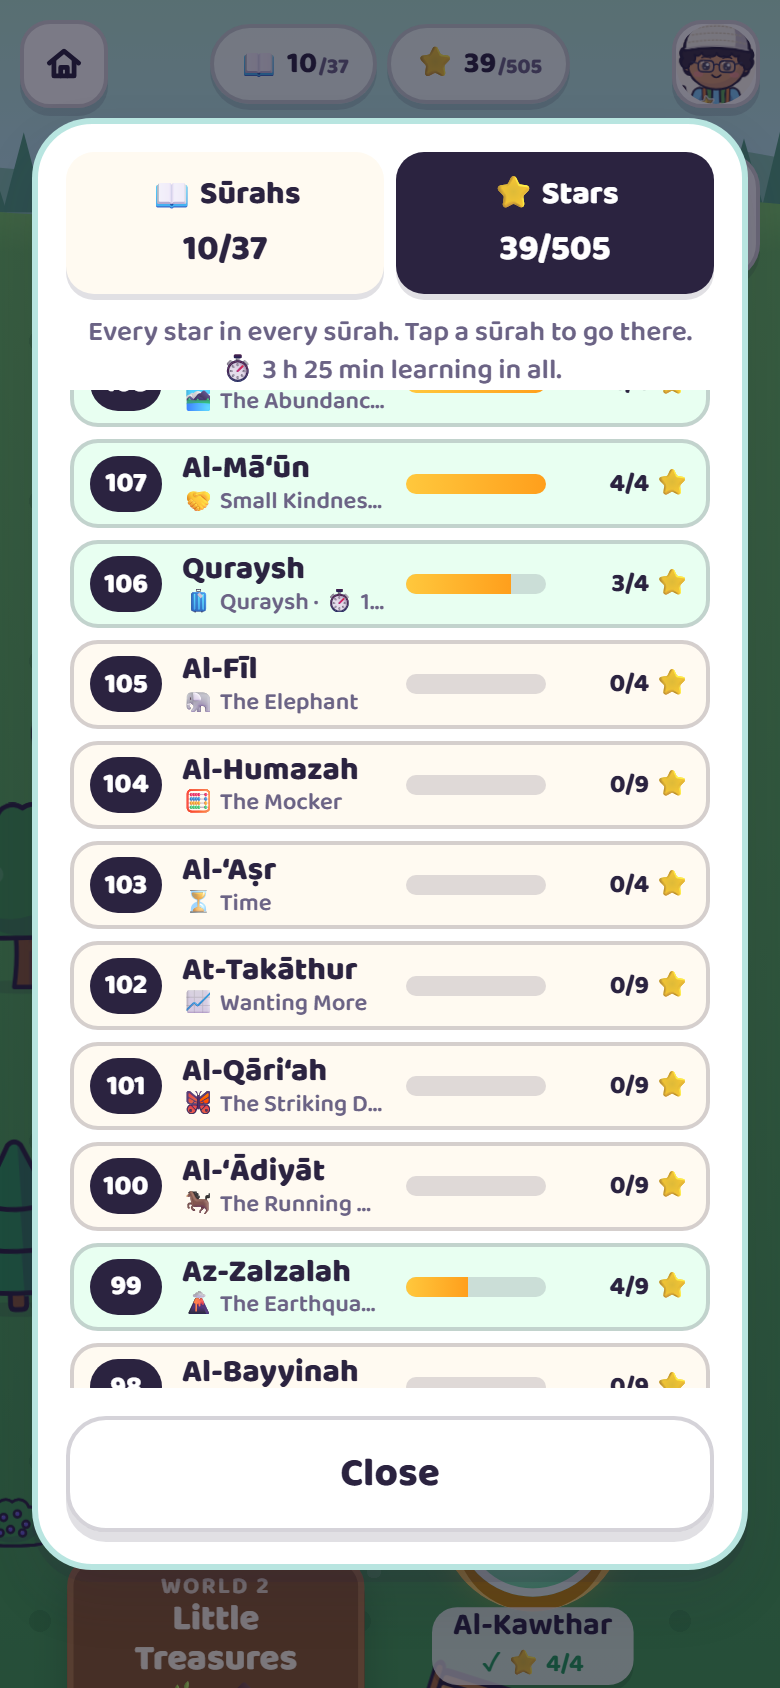
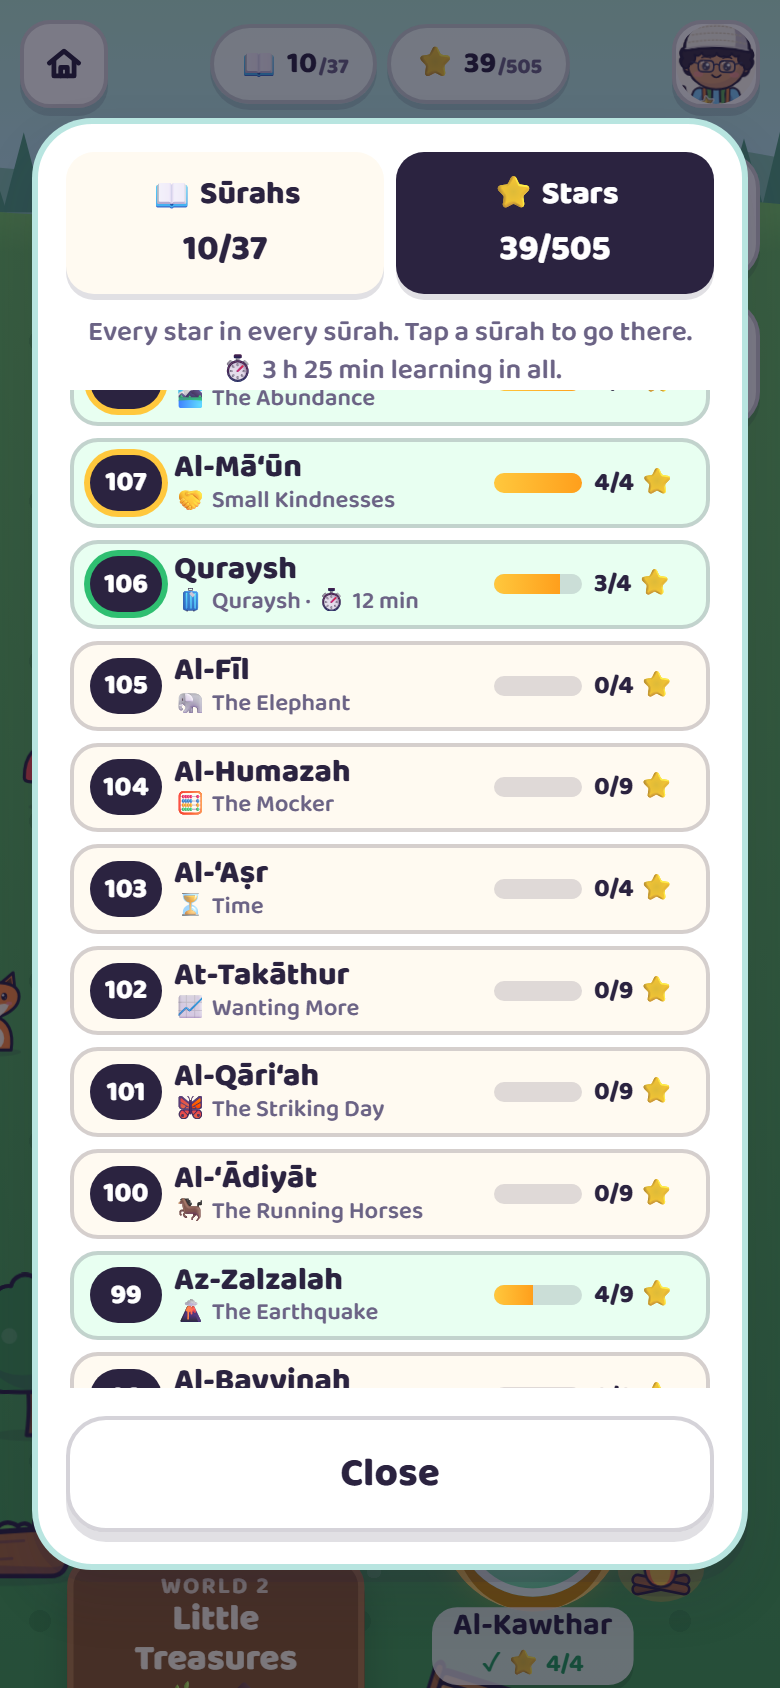
Little Hafiz Quest v2.8.3
The sūrahs list rings each number like the map's stops (gold with every star, green once memorized); Stars shows no
campfires, a shorter bar beside its count, and keeps every meaning whole (the time shows only when it fits).

Claude-Session: https://claude.ai/code/session_01G32LazbMFB5CEeB9eK52fY

diff --git a/js/game.js b/js/game.js
@@ -37,7 +37,7 @@
 (function () {
   'use strict';
 
-  const VERSION = '2.8.2';
+  const VERSION = '2.8.3';
   const DATA = window.LHQ_DATA;
   if (!DATA || !Array.isArray(DATA.surahs)) throw new Error('Little Hafiz Quest: js/data.js did not load.');
   const ART = window.LHQ_ART;
@@ -1939,13 +1939,15 @@
           : `<span class="pgok ${got ? 'on' : ''}">${got ? '✓' : ''}</span>`;
       const t = prof.stime[s.n],
         fl = fireOf(s, prof);
-      return `<button class="pgrow ${got ? 'done' : ''}" data-act="jump" data-i="${i}"><span class="pn">${s.n}</span><span class="pgname">${s.name}${fix ? ' <span class="pgfix" title="Needs fixing">💔</span>' : ''}<small>${s.icon} ${s.meaning}${t >= 30 ? ` · ⏱ ${fmtTime(t)}` : ''}</small></span>${fl >= 0 ? `<span class="pgfire f${fl}" title="Campfire: ${FIRE_WORD[fl]}">${ART.campfire(fl)}</span>` : ''}${right}</button>`;
+      // the number ringed like the map's stops: gold with every star, green once memorized
+      const ring = got >= max ? ' gold' : surahDone(s) ? ' green' : '';
+      return `<button class="pgrow ${got ? 'done' : ''}" data-act="jump" data-i="${i}"><span class="pn${ring}">${s.n}</span><span class="pgname">${s.name}${fix ? ' <span class="pgfix" title="Needs fixing">💔</span>' : ''}<small><span>${s.icon} ${s.meaning}</span>${t >= 30 ? `<span>\u00a0· ⏱ ${fmtTime(t)}</span>` : ''}</small></span>${fl >= 0 && tab !== 'stars' ? `<span class="pgfire f${fl}" title="Campfire: ${FIRE_WORD[fl]}">${ART.campfire(fl)}</span>` : ''}${right}</button>`;
     }).join('');
     const fixes = prof.fix.length ? `<p class="saveinfo center">💔 ${prof.fix.length === 1 ? 'One sūrah needs' : prof.fix.length + ' sūrahs need'} a little fixing: tap it to play a review game there.</p>` : '';
     m.innerHTML = `<div class="card progcard">
       <div class="pgtabs"><button class="${tab !== 'stars' ? 'on' : ''}" data-act="progress" data-t="surahs">📖 Sūrahs <b>${doneSurahs()}/${S.length}</b></button><button class="${tab === 'stars' ? 'on' : ''}" data-act="progress" data-t="stars">⭐ Stars <b>${totalStars()}/${MAX_STARS}</b></button></div>
       <p class="saveinfo center">${tab === 'stars' ? 'Every star in every sūrah. Tap a sūrah to go there.' : 'A sūrah is done with at least one star. Tap one to go there.'} ⏱ ${fmtTime(prof.time || 0)} learning in all.</p>${fixes}
-      <div class="pglist">${rows}</div>
+      <div class="pglist${tab === 'stars' ? ' stars' : ''}">${rows}</div>
       <div class="row"><button class="btn wide" data-act="cno">Close</button></div></div>`;
     m.classList.add('show');
     const list = m.querySelector('.pglist'),

diff --git a/tests/cases/v283.js b/tests/cases/v283.js
@@ -1,0 +1,20 @@
+// v2.8.3: the sūrahs list rings each number like the map (gold: every star, green: memorized); Stars shows no campfires
+(async () => {
+  fixture();
+  const { w, d, L, idx } = await openGame();
+  const errs = watchErrors(w);
+  const m = d.getElementById('modal');
+  L.go('map'); await wait(1200);
+  d.querySelector('[data-act=progress][data-t=surahs]').click(); await wait(300);
+  const pn = (n) => m.querySelectorAll('.pgrow')[idx(n)].querySelector('.pn').className;
+  log('rings', [114, 113, 112, 111].map((n) => n + ':' + pn(n)).join(' '));
+  ok('every star: a gold ring (An-Nās)', /\bgold\b/.test(pn(114)), pn(114));
+  ok('memorized, stars to go: a green ring (Al-Ikhlāṣ)', /\bgreen\b/.test(pn(112)), pn(112));
+  ok('not memorized: no ring (Al-Masad)', !/gold|green/.test(pn(111)), pn(111));
+  ok('Sūrahs shows the campfires', m.querySelectorAll('.pgfire').length >= 3);
+  d.querySelector('[data-act=progress][data-t=stars]').click(); await wait(300);
+  ok('Stars shows only the bars and stars, no campfires', !m.querySelector('.pgfire') && m.querySelectorAll('.pgbar').length === 37);
+  ok('Stars keeps the rings', /\bgold\b/.test(pn(114)));
+  ok('no game errors', !errs.length, errs.slice(0, 3).join('; '));
+  done();
+})();

diff --git a/css/game.css b/css/game.css
@@ -9182,3 +9182,36 @@ body:has(.wrail.open) .jbtn {
 .strscr .arena .me {
   left: 20%;
 }
+
+/* ---------- v2.8.3: the sūrahs list ---------- */
+/* the number ringed like the map's stops: gold with every star, green once memorized */
+.pgrow .pn.gold {
+  box-shadow: 0 0 0 3px var(--gold);
+}
+.pgrow .pn.green {
+  box-shadow: 0 0 0 3px var(--go);
+}
+/* Stars: the bar right beside its count, leaving room for the sūrah's meaning */
+.pgbar {
+  width: 44px;
+}
+.pglist.stars .pgrow {
+  gap: 6px;
+  padding-right: 6px;
+}
+.pgst {
+  width: 52px;
+  text-align: left;
+}
+/* the meaning stays whole: the time beside it shows only when it fits (else it wraps out of sight) */
+.pgname small {
+  display: flex;
+  flex-wrap: wrap;
+  height: 1.2em;
+  line-height: 1.2;
+}
+.pgname small > span {
+  max-width: 100%;
+  overflow: hidden;
+  text-overflow: ellipsis;
+}

diff --git a/sw.js b/sw.js
@@ -17,7 +17,7 @@
  */
 'use strict';
 
-const VERSION = '2.8.2';
+const VERSION = '2.8.3';
 const SHELL_CACHE = `lhq2-shell-${VERSION}`;
 const AUDIO_CACHE = 'lhq2-audio'; // keep across app updates; change only if the audio files change
 const DATA_CACHE = 'lhq2-data'; // small lists that can change between versions (reciters, versions)

diff --git a/HANDOFF.md b/HANDOFF.md
@@ -3,7 +3,7 @@
 Read this first in a new session. It is kept up to date with every release (see "Release flow" below).
 `README.md` is a short public overview (highlights, install, privacy, credits); this file holds the detail.
 
-**Current version:** v2.8.2 (2026-11-02) · **Live:** https://akramali.github.io/little-hafiz-quest/ ·
+**Current version:** v2.8.3 (2026-11-02) · **Live:** https://akramali.github.io/little-hafiz-quest/ ·
 **Repo:** https://github.com/akramali/little-hafiz-quest (branch `main`; `v1` keeps the retired classic version)
 
 ---
@@ -150,7 +150,8 @@ Testing hook: `window.__lhq = { st, store, go, player, elder: { strikeFor, block
   1 embers ("time to touch up", cold), 0 out (smoke). Words: `FIRE_WORD`. "Cold" (the Teacher's pick, the
   breathing) = level ≤ 1.
   Drawn by `ART.campfire` in each memorized node (`.nfire`); low and out ones breathe on the map (`fireBreathe`),
-  and each shows in the sūrahs list (`.pgfire`). `stokeFire` (any game finished in a memorized sūrah, or passing the
+  and each shows in the sūrahs list (`.pgfire`, Sūrahs tab only; there each number is ringed gold with every star,
+  green once memorized, like the map's stops; the meaning stays whole and the time beside it shows only if it fits). `stokeFire` (any game finished in a memorized sūrah, or passing the
   Teacher's test) sets it to now; a low one relit flares up when the map is back (`relit`, `flareFire`). **The
   stake** (v2.7.21): the Teacher comes on his own regardless, but with a fire low or out his roll is 1 in 2 (else
   1 in 3) and 3 times in 4 he picks a cold one; tapped tests always prefer cold ones. Each
@@ -245,4 +246,4 @@ v2.3–2.4: nature sounds, jigsaw, Read view, awards, files. v2.5.0: family sync
 classic v1 retired, word meanings. v2.5.1–2.5.8: buttons, speed, info/how-to, fruit and animals, all explorers on
 the map, chain setting, gift fixes, faces, glasses, Big Puzzle. v2.6.0: golden/green worlds, world rides, speed
 button, one-tap gifts, the Wise Elder. v2.6.1–2.6.6: Wise Elder polish, closing animations, stakes (every miss costs,
-world throws, protection), battle ground in the world's colors. v2.6.7: the Wise Elder every 10 minutes; speed and loop in Word Steps and Stepping Stones. v2.6.8: Read starts with the Bismillah (āyah -1, word data in `BISM_WORDS`) and follows the recited āyah; the screen stays on while reciting (`keepAwake`, Wake Lock; 99× loops let go after 15 min); full world names in the list. v2.6.9: no text selection or long-press menus (text boxes and the share picture excepted); zoom kept. v2.6.10: My Achievements fits on one screen. v2.6.11: the Stranger becomes the Wise Elder (a kind old man, star staff, woven belt, swaying robe), renamed everywhere. v2.6.12: the Wise Elder walks with you through the world (taller, comforting, soft hurt, neutral "Test" wording), gives his staff at the summit; Read with the Bismillah plays the whole sūrah again. v2.6.13: the Wise Elder every 7 minutes, gentler robe sway, simpler praise; the temporary Elder test button removed. v2.8.2: the roaring campfire redrawn (the strong flame, bigger, with two tips). v2.8.1: the Stranger keeps bridges from World 4 up (never on the map), once per world memorized from the start; the farewell at the end; streaks right on clock-change days. v2.8.0: the Stranger returns (once per world memorized, the Teacher at your side, nothing lost; the last time with the whole Juz), six campfire steps, hearts 4 and 5 from worlds 5 and 6, the frog lands on the next set, patterned gifts no longer freeze their card, saved names `teacher`/`stranger`. v2.7.23: journal pictures only in Look & Repeat. v2.7.22: 50 pattern versions of everyday things, surprises paced to last until every star. v2.7.21: Teacher visits regardless (more for cold fires), winning back = the gift, frog bank/slip, apples and ice, aviator shades redrawn, stickers still to win as tiles. v2.7.20: the streak button reads "🏃 4 days". v2.7.19: the install banner under the top buttons, called Install. v2.7.18: install banner. v2.7.17: Home zooms back out, ✏ Change your explorer, 🏃 streak, the update note closes on a tap outside. v2.7.16: making an explorer laid out like My look, every color for everyone, tap outside closes any pop-up (out of hearts: Next time), swipes work by touch on phones. v2.7.15: the explorer's name as the title of My Explorer / My Achievements. v2.7.14: swipe and Back in How to play, swipe in Word Steps, map bubbles kept on screen. v2.7.13: campfires over three weeks, low ones breathe, the Teacher visits cold fires, relit fires flare, campfires in the sūrahs list. v2.7.12: How to play = the Teacher's guide cards; every journal thing always on the map. v2.7.11: the welcome covers the four steps, dressing up, campfires and the journal. v2.7.10: install steps brought up to date (iOS 26 Safari: ⋯ → Share → Add to Home Screen, Open as Web App on; Android Chrome: ⋮ → Add to home screen / Install app → Install) in the README and the fullscreen tip. v2.7.9: lost things in a small heap close to their sūrah. v2.7.8: lost things never overlap. v2.7.7: the test's header ("Test · sūrah", dots under it, level with Listen). v2.7.6: tap a campfire for its status; Listen top right in the test. v2.7.5: Listen in the Teacher's test (question only), misses dim the campfire, the campfire on the sūrah page, swipe in Look & Repeat, lost things kept on screen. v2.7.4: speed and loop in chain time. v2.7.3: Listen plays the lit chain āyah / the next puzzle piece; the explorer switcher matches the Explorers page. v2.7.2: "Your Teacher", tap to add to the journal, the journal as a book (swipe pages), its button under the worlds button, pastel comfy colors and shoe colors, switch explorer by the name, journal finds in Achievements. v2.7.1: family links carry every field (extras block); backups verified field by field. v2.7.0: campfires, the journal hunt, streaks, the Wise Elder's welcome and walking stick, Begin the quest, things on the map react (the boat sails off), the Elder's timer after 3 memorized sūrahs. v2.6.14: the Wise Elder roams the map (tap for a test, one gift a day), rematches wait for his timer, Auto theme by sunrise/sunset, still stickers, a new bee, the Version card updates in place. Full detail: `git log` and `changelog.json`.
+world throws, protection), battle ground in the world's colors. v2.6.7: the Wise Elder every 10 minutes; speed and loop in Word Steps and Stepping Stones. v2.6.8: Read starts with the Bismillah (āyah -1, word data in `BISM_WORDS`) and follows the recited āyah; the screen stays on while reciting (`keepAwake`, Wake Lock; 99× loops let go after 15 min); full world names in the list. v2.6.9: no text selection or long-press menus (text boxes and the share picture excepted); zoom kept. v2.6.10: My Achievements fits on one screen. v2.6.11: the Stranger becomes the Wise Elder (a kind old man, star staff, woven belt, swaying robe), renamed everywhere. v2.6.12: the Wise Elder walks with you through the world (taller, comforting, soft hurt, neutral "Test" wording), gives his staff at the summit; Read with the Bismillah plays the whole sūrah again. v2.6.13: the Wise Elder every 7 minutes, gentler robe sway, simpler praise; the temporary Elder test button removed. v2.8.3: the sūrahs list rings each number gold/green, Stars without campfires and with whole meanings. v2.8.2: the roaring campfire redrawn (the strong flame, bigger, with two tips). v2.8.1: the Stranger keeps bridges from World 4 up (never on the map), once per world memorized from the start; the farewell at the end; streaks right on clock-change days. v2.8.0: the Stranger returns (once per world memorized, the Teacher at your side, nothing lost; the last time with the whole Juz), six campfire steps, hearts 4 and 5 from worlds 5 and 6, the frog lands on the next set, patterned gifts no longer freeze their card, saved names `teacher`/`stranger`. v2.7.23: journal pictures only in Look & Repeat. v2.7.22: 50 pattern versions of everyday things, surprises paced to last until every star. v2.7.21: Teacher visits regardless (more for cold fires), winning back = the gift, frog bank/slip, apples and ice, aviator shades redrawn, stickers still to win as tiles. v2.7.20: the streak button reads "🏃 4 days". v2.7.19: the install banner under the top buttons, called Install. v2.7.18: install banner. v2.7.17: Home zooms back out, ✏ Change your explorer, 🏃 streak, the update note closes on a tap outside. v2.7.16: making an explorer laid out like My look, every color for everyone, tap outside closes any pop-up (out of hearts: Next time), swipes work by touch on phones. v2.7.15: the explorer's name as the title of My Explorer / My Achievements. v2.7.14: swipe and Back in How to play, swipe in Word Steps, map bubbles kept on screen. v2.7.13: campfires over three weeks, low ones breathe, the Teacher visits cold fires, relit fires flare, campfires in the sūrahs list. v2.7.12: How to play = the Teacher's guide cards; every journal thing always on the map. v2.7.11: the welcome covers the four steps, dressing up, campfires and the journal. v2.7.10: install steps brought up to date (iOS 26 Safari: ⋯ → Share → Add to Home Screen, Open as Web App on; Android Chrome: ⋮ → Add to home screen / Install app → Install) in the README and the fullscreen tip. v2.7.9: lost things in a small heap close to their sūrah. v2.7.8: lost things never overlap. v2.7.7: the test's header ("Test · sūrah", dots under it, level with Listen). v2.7.6: tap a campfire for its status; Listen top right in the test. v2.7.5: Listen in the Teacher's test (question only), misses dim the campfire, the campfire on the sūrah page, swipe in Look & Repeat, lost things kept on screen. v2.7.4: speed and loop in chain time. v2.7.3: Listen plays the lit chain āyah / the next puzzle piece; the explorer switcher matches the Explorers page. v2.7.2: "Your Teacher", tap to add to the journal, the journal as a book (swipe pages), its button under the worlds button, pastel comfy colors and shoe colors, switch explorer by the name, journal finds in Achievements. v2.7.1: family links carry every field (extras block); backups verified field by field. v2.7.0: campfires, the journal hunt, streaks, the Wise Elder's welcome and walking stick, Begin the quest, things on the map react (the boat sails off), the Elder's timer after 3 memorized sūrahs. v2.6.14: the Wise Elder roams the map (tap for a test, one gift a day), rematches wait for his timer, Auto theme by sunrise/sunset, still stickers, a new bee, the Version card updates in place. Full detail: `git log` and `changelog.json`.
